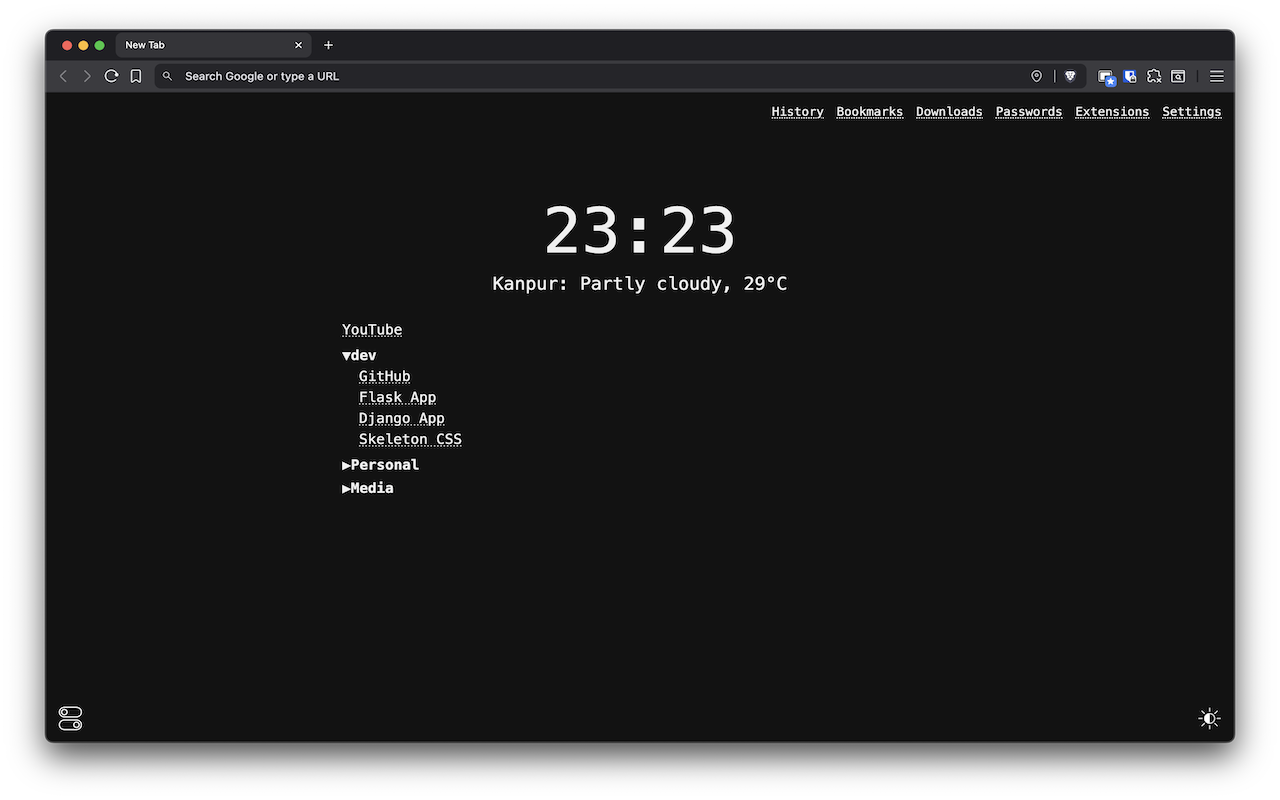
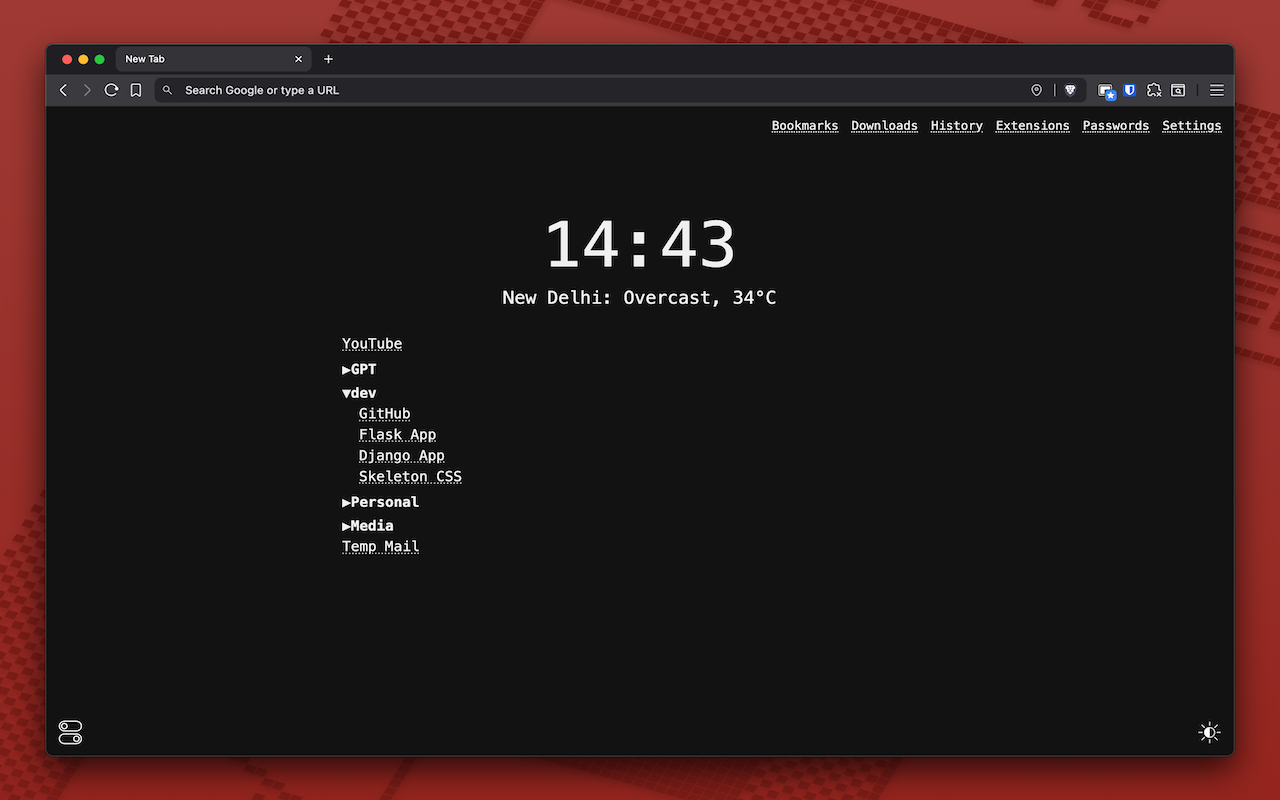
Updated screenshots, readme

Changed region(s): [[0.0, 0.0, 1.0, 1.0], [0.375, 0.25, 0.625, 0.4062], [0.25, 0.4062, 0.375, 0.6875]]

diff --git a/options.html b/options.html
@@ -105,6 +105,18 @@
                 <label for="custom-svg-input">Custom SVG</label><br>
                 <textarea id="custom-svg-input" name="custom-svg-input" rows="4" cols="50"
                     placeholder="Paste your SVG code here..."></textarea>
+                <br>
+                <ul>
+                    <li>For your SVG to work well, make sure that it has:
+                    
+                        <ol>
+                            <li>viewBox="0 0 512 512"</li>
+                            <li>The fill attribute doesn't have a fill attribute, unless you want to override the extension settings.</li>
+                        </ol>
+                    </li>
+                    <li>To convert PNG, JPG, etc to SVGs, use any of the several online tools such as <a href="https://svgco.de/">SVGcode</a></li>
+                    <li>To convert SVG images to pastable HTML code, use any of the several online tools such as <a href="https://nikitahl.github.io/svg-2-code/">SVG to Code</a></li>
+                </ul>
             </div>
             <label>Pixel Art Opacity<input type="number" id="pixelArtOpacity" min="0" max="100" step="1"></label><br>
             <label>Pixel Art Density<input type="number" id="pixelArtDensity" min="0" max="100" step="1"></label><br>

diff --git a/style.css b/style.css
@@ -203,6 +203,7 @@ body.options {
     text-align: left;
     width: 50%;
     padding-top: 3em;
+    margin-left : 10em;
 }
 
 .options-table {

diff --git a/README.md b/README.md
@@ -23,16 +23,20 @@
 
 ## 📷 Screenshots
 
-| Dark Theme | Light Theme |
-|------------|-------------|
-| ![Dark](screenshots/dark.png) | ![Light](screenshots/light.png) |
+|           Dark Theme          |         Light Theme             |               Options               |
+|-------------------------------|---------------------------------|-------------------------------------|
+| ![Dark](screenshots/dark.png) | ![Light](screenshots/light.png) | ![Options](screenshots/options.png) |
+
+
 
 ---
 
 ## Installation (CRX)
 
+- 📎 [Chrome Web Store](https://chromewebstore.google.com/detail/minimal-new-tab/hdodpjlgcieifmkkidligdnonbfiijnd)
+
 - 📦 [Download CRX](https://github.com/ujain1999/minimal_newtab/releases/latest)
 
-- For manual installation, clone this repository:
+- For manual installation, clone this repository and [load it as an unpacked extension](https://developer.chrome.com/docs/extensions/get-started/tutorial/hello-world#load-unpacked).
 ```bash
 git clone https://github.com/ujain1999/minimal_newtab.git
